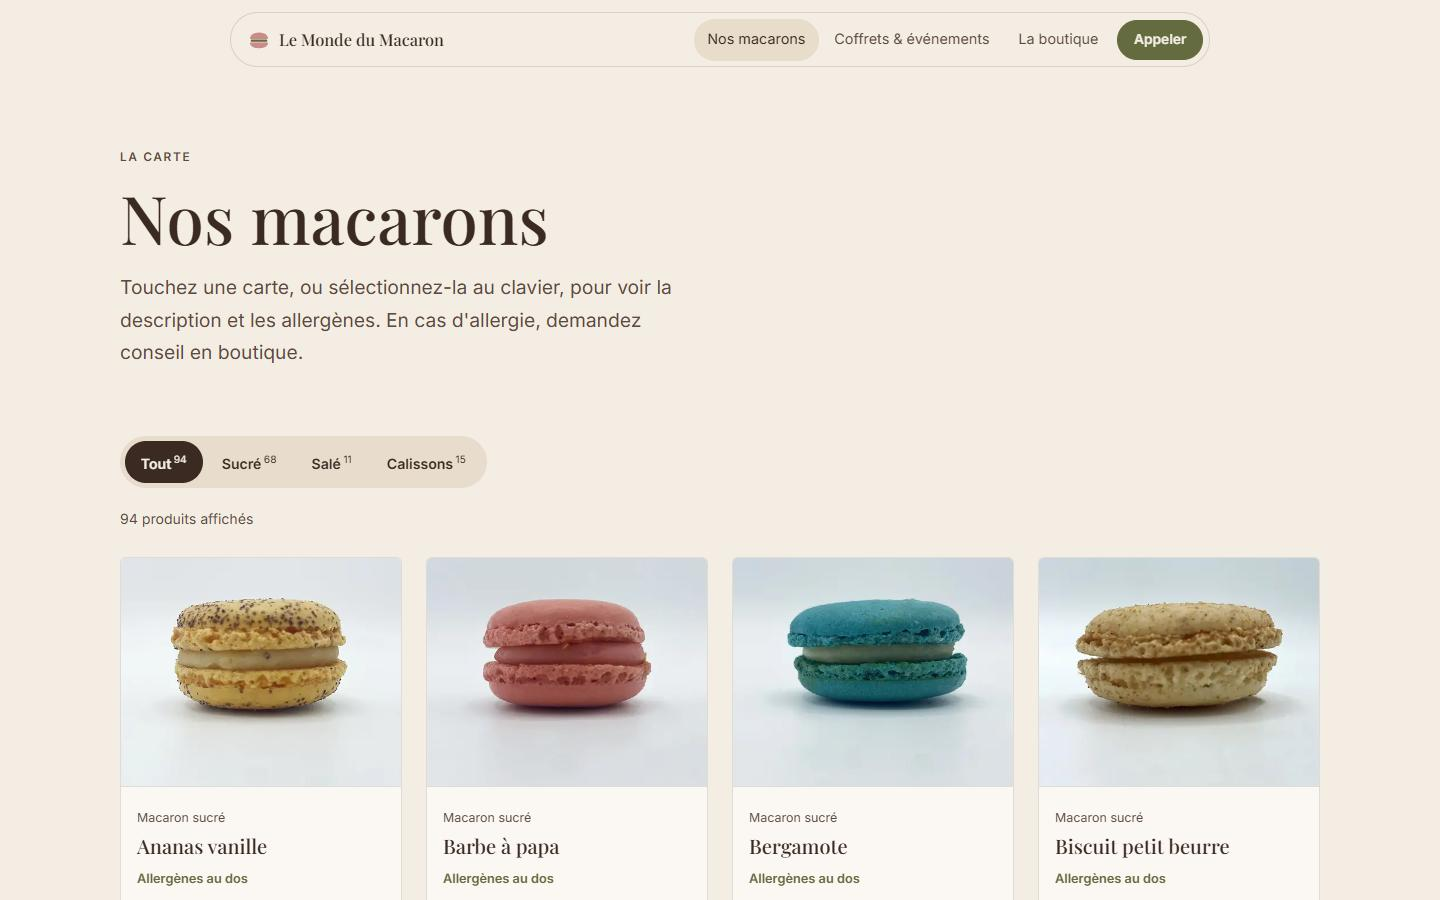
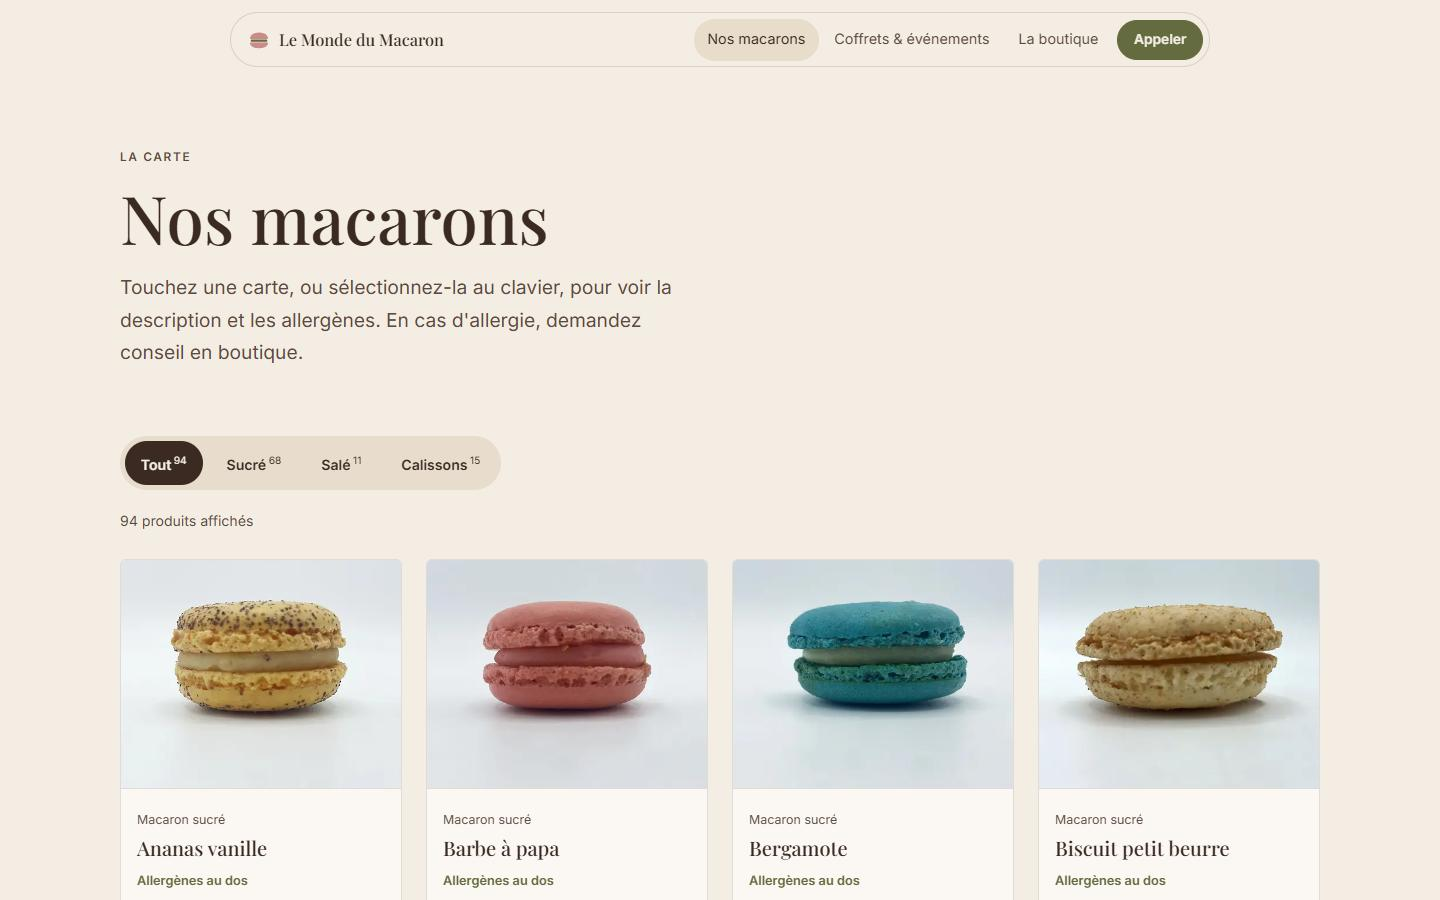
Application du skill ui-ux-pro-max

diff --git a/src/styles/site.css b/src/styles/site.css
@@ -24,6 +24,9 @@
   --max: 1200px;
   --radius: 6px;
   --ease: cubic-bezier(.25, .8, .25, 1);
+  /* durées communes (skill ui-ux-pro-max : survols courts, apparitions discrètes) */
+  --dur-fast: 200ms;
+  --dur: 350ms;
 }
 
 *, *::before, *::after { box-sizing: border-box; }
@@ -71,7 +74,7 @@ mark.todo { background: #FFE58A; color: #3A2A22; padding: 0 .3em; border-radius:
   display: inline-flex; align-items: center; justify-content: center; gap: .55rem;
   min-height: 48px; padding: .8rem 1.4rem; border-radius: var(--radius); border: 1px solid var(--bg);
   background: var(--bg); color: var(--fg); font: 600 .94rem/1 var(--sans); text-decoration: none;
-  transition: background .25s, color .25s, border-color .25s; cursor: pointer; white-space: nowrap;
+  transition: background var(--dur-fast), color var(--dur-fast), border-color var(--dur-fast); cursor: pointer; white-space: nowrap;
 }
 .btn:hover { --bg: var(--olive-fonce); }
 .btn--ghost { --bg: transparent; --fg: var(--choco); border-color: rgba(58, 42, 34, .45); }
@@ -94,7 +97,7 @@ mark.todo { background: #FFE58A; color: #3A2A22; padding: 0 .3em; border-radius:
 .nav__logo { display: flex; align-items: center; gap: .5rem; text-decoration: none; font: 500 1.02rem/1 var(--serif); margin-right: auto; white-space: nowrap; }
 .nav__mark { width: 24px; height: 24px; flex: none; }
 .nav__links { display: none; gap: .1rem; }
-.nav__links a { padding: .55rem .85rem; border-radius: 999px; text-decoration: none; font-size: .9rem; color: var(--choco-doux); }
+.nav__links a { transition: background var(--dur-fast), color var(--dur-fast); padding: .55rem .85rem; border-radius: 999px; text-decoration: none; font-size: .9rem; color: var(--choco-doux); }
 .nav__links a:hover { color: var(--choco); background: var(--beige); }
 .nav__links a[aria-current='page'] { color: var(--choco); background: var(--beige); }
 .nav__call { display: none; border-radius: 999px; }
@@ -189,8 +192,8 @@ mark.todo { background: #FFE58A; color: #3A2A22; padding: 0 .3em; border-radius:
 .page-head .lead { margin-top: 1rem; }
 
 /* Nos macarons */
-.filters { position: sticky; top: 4.6rem; z-index: 10; display: flex; gap: .2rem; flex-wrap: nowrap; overflow-x: auto; scrollbar-width: none; padding: .3rem; margin-bottom: 1.2rem; border-radius: 999px; background: rgba(232, 220, 203, .94); backdrop-filter: blur(8px); -webkit-backdrop-filter: blur(8px); width: fit-content; max-width: 100%; }
-.filters button { flex: none; min-height: 42px; padding: .45rem 1rem; border: 0; border-radius: 999px; background: transparent; color: var(--choco); font: 600 .88rem var(--sans); cursor: pointer; }
+.filters { position: sticky; top: 4.6rem; z-index: 10; display: flex; gap: .5rem; flex-wrap: nowrap; overflow-x: auto; scrollbar-width: none; padding: .3rem; margin-bottom: 1.2rem; border-radius: 999px; background: rgba(232, 220, 203, .94); backdrop-filter: blur(8px); -webkit-backdrop-filter: blur(8px); width: fit-content; max-width: 100%; }
+.filters button { flex: none; min-height: 44px; transition: background var(--dur-fast), color var(--dur-fast); padding: .45rem 1rem; border: 0; border-radius: 999px; background: transparent; color: var(--choco); font: 600 .88rem var(--sans); cursor: pointer; }
 .filters button:hover { background: var(--creme); }
 .filters button[aria-pressed='true'] { background: var(--choco); color: var(--creme); }
 .filters sup { font-size: .72em; margin-left: .25em; font-weight: 400; }

diff --git a/src/scripts/main.js b/src/scripts/main.js
@@ -61,8 +61,8 @@ $$(`[data-horaires] [data-jour="${code}"]`).forEach((l) => l.classList.add('is-t
 
 /* ---------- Apparitions douces au défilement ---------- */
 $$('[data-reveal]').forEach((el) => {
-  gsap.fromTo(el, { opacity: 0, y: reduce ? 0 : 14 }, {
-    opacity: 1, y: 0, duration: 0.7, ease: 'power2.out',
+  gsap.fromTo(el, { opacity: 0, y: reduce ? 0 : 12 }, {
+    opacity: 1, y: 0, duration: 0.35, ease: 'power1.out',
     scrollTrigger: { trigger: el, start: 'top 90%', once: true },
   });
 });

diff --git a/RAPPORT.md b/RAPPORT.md
@@ -21,6 +21,7 @@
 
 ## 3. Décisions prises seul
 - **Refonte « plus sérieuse »** (à ta demande) : même palette et mêmes polices, mais mise en page alignée à gauche, titres sobres sans italiques décoratives, plus de numéros « 01 / 02 / 03 », angles discrets au lieu des grandes cartes arrondies, héros à la taille du contenu au lieu d'un plein écran, textes plus directs. Une seule animation d'entrée, calme (plus de chute avec rebond ni d'effet de profondeur). Principes tirés du skill de design disponible (`artifact-design`) : aucun skill de design web n'est installé sur ton compte.
+- **Skill ui-ux-pro-max** (le dépôt GitHub que tu m'as donné) : téléchargé dans un dossier temporaire (pas installé sur le PC), script vérifié puis lancé. Retenu : style minimaliste posé, animations subtiles (survols 200 ms, apparitions 350 ms / 12 px), 8 px entre les boutons, cibles de 44 px, contrôle en 1024 px. Écarté : son style « Boulangerie/Café » (couleurs vives, claymorphism), sa palette noir/or et ses polices, car ta charte prime ; et les témoignages clients (pas d'avis vérifiés réutilisables). Tout est résumé dans `design-system/MASTER.md`.
 - **Node.js absent** → Node 24 LTS portable téléchargé depuis nodejs.org (empreinte SHA-256 vérifiée), rangé dans `.tools/` à l'intérieur du projet. Rien n'est installé ailleurs sur le PC. `.tools/` n'est pas envoyé sur Git.
 - **Astro plutôt que HTML pur** : le contenu vient des 2 fichiers JSON et la page est générée à l'avance. Google lit tout le texte, aucun JavaScript n'est nécessaire pour voir les infos, et Cloudflare Pages sait construire Astro tout seul. C'est aussi un bon modèle à réutiliser pour tes prochains clients.
 - **Sources** : mondedumacaron.com (anglais) + mondedumacaron.fr (français, même catalogue, avec « Sucrés » / « Sucrés-Salés » et une page Villefranche). La catégorie « Sucrés-Salés » devient « Salé ».
@@ -48,7 +49,7 @@
 ## 5. Scores Lighthouse (mobile, 19/11/2026)
 | Page | Performance | Accessibilité | Bonnes pratiques | SEO |
 |---|---|---|---|---|
-| Accueil | 100 | 100 | 100 | 100 |
+| Accueil | 95 à 100 | 100 | 100 | 100 |
 | Nos macarons | 96 | 100 | 100 | 100 |
 | Coffrets & événements | 100 | 100 | 100 | 100 |
 | La boutique | 100 | 100 | 100 | 100 |
@@ -56,7 +57,7 @@
 | 404 | 100 | 100 | 100 | 69 * |
 
 \* Normal : la page 404 est volontairement cachée à Google (« noindex »).
-Vérifié aussi en 375, 768 et 1440 px : aucun débordement, aucun texte coupé, aucune erreur console, aucun lien cassé. Captures dans `captures/` (version pleine page + version écran pour chaque page et chaque taille).
+Vérifié aussi en 375, 768, 1024 et 1440 px : aucun débordement, aucun texte coupé, aucune erreur console, aucun lien cassé. Captures dans `captures/` (version pleine page + version écran pour chaque page et chaque taille).
 
 ## 6. Ce qui reste à faire
 - **Tout ce qui manque est listé dans `A-REMPLACER.md`** (avec la page et le fichier). Sur le site, chaque trou est surligné en jaune.

diff --git a/design-system/MASTER.md b/design-system/MASTER.md
@@ -1,0 +1,37 @@
+# Design system — Le Monde du Macaron (Villefranche)
+
+Règles du site, à respecter pour toute nouvelle page. Les valeurs vivent dans `src/styles/site.css` (bloc `:root`).
+Méthode : skill **ui-ux-pro-max** (requête « bakery patisserie local shop elegant », réglages variance 3, motion 3, density 3), filtrée par le cahier des charges du client, qui reste prioritaire.
+
+## Style
+- **Minimalisme posé** (famille « Minimalism & Swiss Style » du skill) : grille alignée à gauche, beaucoup d'espace, filets fins, peu d'ombres, angles de 6 px.
+- **Écarté** : la recommandation du skill pour « Bakery/Cafe » (style vif en blocs, claymorphism), contraire à la demande d'un site sérieux et mature.
+- Pas d'italiques décoratives dans les titres, pas de numéros « 01 / 02 », pas d'emoji.
+
+## Couleurs (imposées par le client)
+| Rôle | Valeur | Usage |
+|---|---|---|
+| Fond | `#F4EDE3` crème | fond principal |
+| Sections | `#E8DCCB` beige | bandes alternées, bandeau |
+| Action | `#646B3F` olive | boutons principaux, accents (texte OK sur crème : 4,9:1) |
+| Détail | `#C98C88` vieux rose | filets, puces, survols — jamais de texte |
+| Texte | `#3A2A22` chocolat | texte et titres (12,9:1) ; fond du bloc « Venir à la boutique » et du pied de page |
+| Texte secondaire | `#5C4A40` | légendes (7,6:1) |
+
+Le skill proposait noir + or et Cormorant/Montserrat : non retenu, la charte du client prime.
+
+## Typographie (imposée)
+- Titres : Playfair Display 500. Texte : Inter 400 / 600. Polices hébergées sur le site.
+- Échelle : h1 2,4 → 4,6 rem ; h2 1,8 → 2,6 rem ; texte 17 px, interligne 1,7.
+- `text-wrap: balance` sur les titres.
+
+## Mouvement (réglage « subtil » du skill)
+- Survols : 200 ms (`--dur-fast`). Apparitions au défilement : 350 ms, décalage 12 px, `power1.out`.
+- Une seule animation marquante par page (accueil : macarons qui se posent dans la vitrine).
+- `prefers-reduced-motion` : simples fondus, rien ne bouge.
+
+## Interaction et accessibilité (checklist du skill)
+- Cibles tactiles ≥ 44 px, 8 px minimum entre deux boutons.
+- Boutons à bascule avec `aria-pressed` (filtres, cartes allergènes).
+- Focus visible, page active signalée dans le menu, contraste ≥ 4,5:1.
+- Vérifié en 375, 768, 1024 et 1440 px.

diff --git a/PROGRESSION.md b/PROGRESSION.md
@@ -43,3 +43,4 @@
 - Étape 4 finie : build `npm run build` → `dist/`, .node-version=24, _headers (cache/sécurité), .gitignore. Rien envoyé en ligne.
 - Étape 5 finie : RAPPORT.md réécrit (version téléphone), serveur local arrêté. Mission terminée.
 - Retour de Kerem : horaires 8h-19h confirmés ; refonte du style en plus sobre et mature (site.css). Lighthouse 96-100. Captures refaites.
+- Skill ui-ux-pro-max appliqué (motion tokens, cibles tactiles, contrôle 1024 px, design-system/MASTER.md). Lighthouse 95-100.
